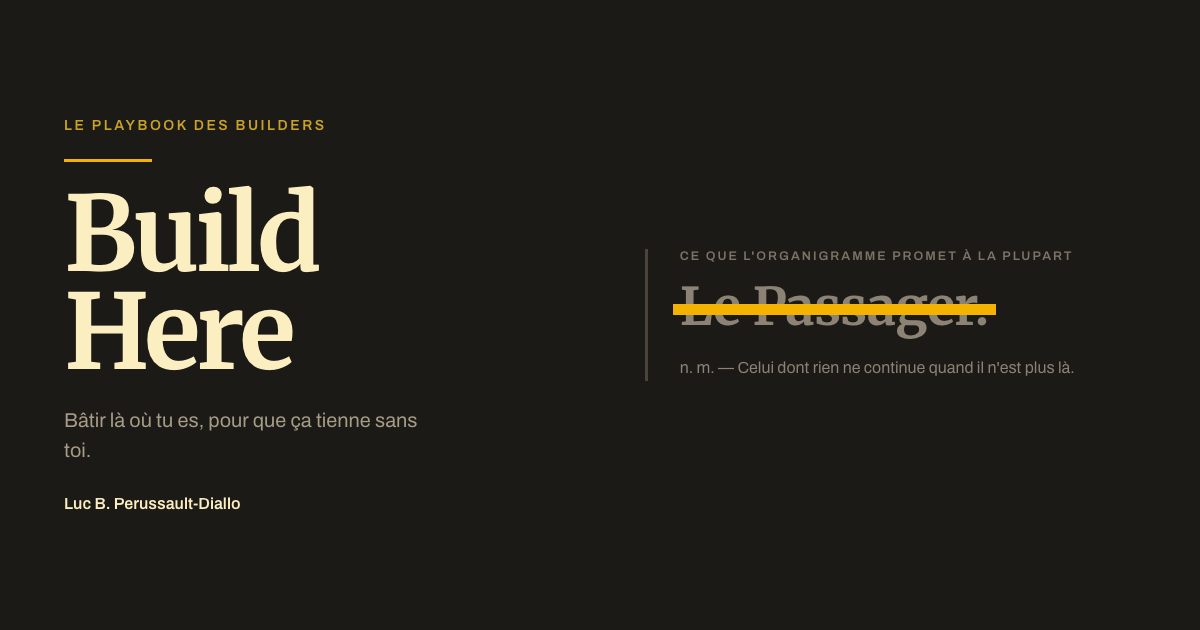
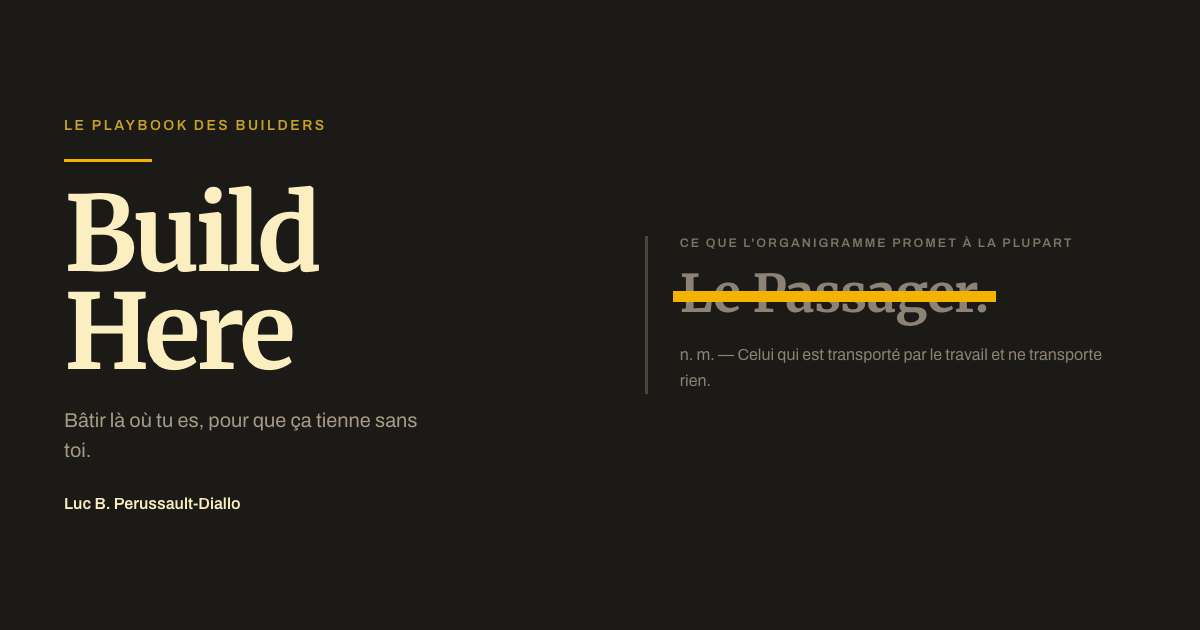
feat(couverture): le passager se définit par ce qu'il ne transporte pas
La définition reprend la phrase de l'introduction au lieu d'annoncer
ce qui reste après son départ. La couverture et l'image de partage
sont regénérées.

Changed region(s): [[0.555, 0.3619, 0.925, 0.6032]]

diff --git a/_cover/cover.html b/_cover/cover.html
@@ -29,7 +29,7 @@
     <div class="entry">
       <div class="src">Ce que l'organigramme promet à la plupart</div>
       <div class="struck">Le Passager.<span class="bar"></span></div>
-      <div class="def">n. m. — Celui dont rien ne continue quand il n'est plus là.</div>
+      <div class="def">n. m. — Celui qui est transporté par le travail et ne transporte rien.</div>
     </div>
     <div class="rule"></div>
     <div class="title">Build<br>Here</div>

diff --git a/_cover/og.html b/_cover/og.html
@@ -33,7 +33,7 @@
   <div class="right">
     <div class="src">Ce que l'organigramme promet à la plupart</div>
     <div class="struck">Le Passager.<span class="bar"></span></div>
-    <div class="def">n. m. — Celui dont rien ne continue quand il n'est plus là.</div>
+    <div class="def">n. m. — Celui qui est transporté par le travail et ne transporte rien.</div>
   </div>
 </div>
 </body></html>
